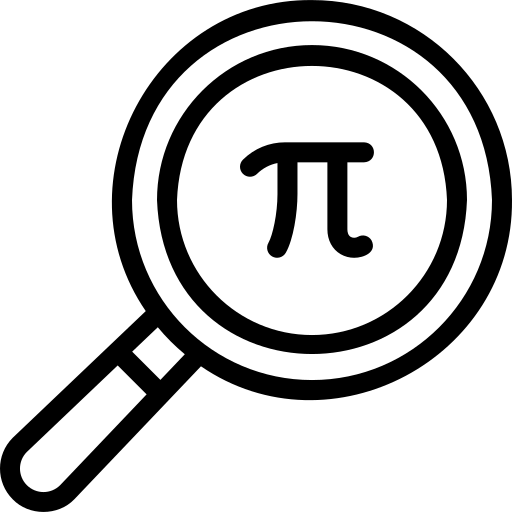
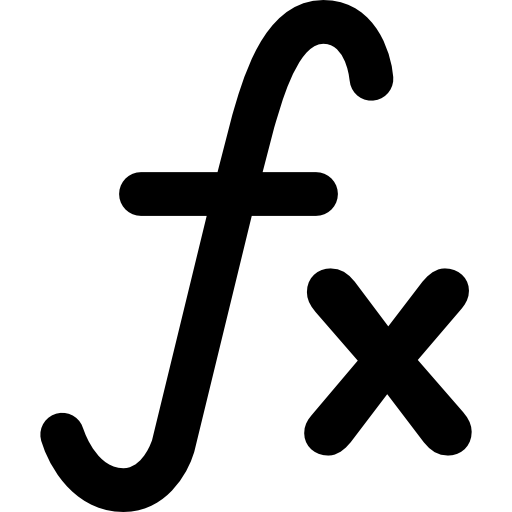
Ускорен пересчёт значений. Изменены иконки.

diff --git a/cornplot/array_utils.c b/cornplot/array_utils.c
@@ -126,47 +126,155 @@ PyObject* c_window_to_real_y_log(PyObject* self, PyObject* args)
 }
 
 
+// PyObject* c_recalculate_window_x(PyObject* self, PyObject* args)
+// {
+//     PyListObject *X_real;
+//     double x_start, real_width;
+//     int min_x, width, i0, ik, step;
+
+//     PyArg_ParseTuple(args, "O!iiddiii", &PyList_Type, &X_real, &min_x, &width, &real_width, &x_start, &i0, &ik, &step);
+
+//     int len = (ik - i0 + step - 1) / step;
+//     double scale = (double)width / real_width;
+//     PyListObject *ret = PyList_New(len);
+//     PyObject **items = ((PyListObject*)X_real)->ob_item;
+
+//     for (int i = i0, j = 0; i < ik && j < len; i += step, j++)
+//     {
+//         double x = PyFloat_AS_DOUBLE(items[i]);
+//         double x_win = min_x + scale * (x - x_start);
+//         PyList_SET_ITEM(ret, j, PyFloat_FromDouble(x_win));
+//     }
+//     return ret;
+// }
+
+
 PyObject* c_recalculate_window_x(PyObject* self, PyObject* args)
 {
-    PyListObject *X_real;
+    PyObject *X_real_obj;
     double x_start, real_width;
     int min_x, width, i0, ik, step;
 
-    PyArg_ParseTuple(args, "O!iiddiii", &PyList_Type, &X_real, &min_x, &width, &real_width, &x_start, &i0, &ik, &step);
-    int len = (int)round((float)(ik - i0) / (float)step);
-    PyListObject *ret = PyList_New(len);
-    int j = 0;
-    for(int i = i0; i < ik; i += step)
+    if (!PyArg_ParseTuple(args, "Oiiddiii", &X_real_obj, &min_x, &width, &real_width, &x_start, &i0, &ik, &step))
+        return NULL;
+
+    Py_buffer view;
+    if (PyObject_GetBuffer(X_real_obj, &view, PyBUF_SIMPLE | PyBUF_FORMAT) < 0)
+        return NULL;
+
+    double *data = (double*)view.buf;
+    
+    int len = (ik - i0 + step - 1) / step;
+    if (len <= 0)
     {
-        double x = PyFloat_AsDouble(PyList_GetItem(X_real, i));
-        double x_win = real_to_window_x(x, min_x, width, real_width, x_start);
-        if(j < len)
-            PyList_SetItem(ret, j++, PyFloat_FromDouble(x_win));
+        PyBuffer_Release(&view);
+        return PyList_New(0);
+    }
+    
+    double scale = (double)width / real_width;
+    
+    PyObject *ret = PyList_New(len);
+    if (ret == NULL)
+    {
+        PyBuffer_Release(&view);
+        return NULL;
     }
 
-    return (PyObject*)ret;
+    int arr_len = view.len / sizeof(double);
+    if (i0 < 0 || ik > arr_len || i0 >= ik)
+    {
+        PyBuffer_Release(&view);
+        Py_DECREF(ret);
+        PyErr_SetString(PyExc_IndexError, "Index out of range");
+        return NULL;
+    }
+
+    for (int i = i0, j = 0; i < ik && j < len; i += step, j++)
+    {
+        double x = data[i];
+        double x_win = min_x + scale * (x - x_start);
+        PyList_SET_ITEM(ret, j, PyFloat_FromDouble(x_win));
+    }
+
+    PyBuffer_Release(&view);
+    return ret;
 }
 
 
-PyObject* c_recalculate_window_y(PyObject* self, PyObject* args)
+/*PyObject* c_recalculate_window_y(PyObject* self, PyObject* args)
 {
     PyListObject *Y_real;
     double y_stop, real_height;
     int min_y, height, i0, ik, step;
 
     PyArg_ParseTuple(args, "O!iiddiii", &PyList_Type, &Y_real, &min_y, &height, &real_height, &y_stop, &i0, &ik, &step);
-    int len = (int)round((float)(ik - i0) / (float)step);
+
+    int len = (ik - i0 + step - 1) / step;
+    double scale = (double)height / real_height;
+    if (len < 0) len = 0;
     PyListObject *ret = PyList_New(len);
-    int j = 0;
-    for(int i = i0; i < ik; i += step)
+
+    PyObject** items = ((PyListObject*)Y_real)->ob_item;
+
+    for (int i = i0, j = 0; i < ik && j < len; i += step, j++)
     {
-        double y = PyFloat_AsDouble(PyList_GetItem(Y_real, i));
-        double y_win = real_to_window_y(y, min_y, height, real_height, y_stop);
-        if(j < len)
-            PyList_SetItem(ret, j++, PyFloat_FromDouble(y_win));
+        double y = PyFloat_AS_DOUBLE(items[i]);
+        double y_win = min_y + scale * (y_stop - y);
+        PyList_SET_ITEM(ret, j, PyFloat_FromDouble(y_win));
+    }
+    return ret;
+}*/
+
+
+PyObject* c_recalculate_window_y(PyObject* self, PyObject* args)
+{
+    PyObject *Y_real;
+    double y_stop, real_height;
+    int min_y, height, i0, ik, step;
+
+    if (!PyArg_ParseTuple(args, "Oiiddiii", &Y_real, &min_y, &height, &real_height, &y_stop, &i0, &ik, &step))
+        return NULL;
+
+    Py_buffer view;
+    if (PyObject_GetBuffer(Y_real, &view, PyBUF_SIMPLE | PyBUF_FORMAT) < 0)
+        return NULL;
+
+    double *data = (double*)view.buf;
+    
+    int len = (ik - i0 + step - 1) / step;
+    if (len <= 0)
+    {
+        PyBuffer_Release(&view);
+        return PyList_New(0);
+    }
+    
+    double scale = (double)height / real_height;
+    
+    PyObject *ret = PyList_New(len);
+    if (ret == NULL)
+    {
+        PyBuffer_Release(&view);
+        return NULL;
     }
 
-    return (PyObject*)ret;
+    int arr_len = view.len / sizeof(double);
+    if (i0 < 0 || ik > arr_len || i0 >= ik)
+    {
+        PyBuffer_Release(&view);
+        Py_DECREF(ret);
+        PyErr_SetString(PyExc_IndexError, "Index out of range");
+        return NULL;
+    }
+
+    for (int i = i0, j = 0; i < ik && j < len; i += step, j++)
+    {
+        double y = data[i];
+        double y_win = min_y + scale * (y_stop - y);
+        PyList_SET_ITEM(ret, j, PyFloat_FromDouble(y_win));
+    }
+
+    PyBuffer_Release(&view);
+    return ret;
 }
 
 

diff --git a/cornplot/dashboard.py b/cornplot/dashboard.py
@@ -2,10 +2,12 @@ import pickle, csv
 from math import log2, floor
 from typing import Any
 from pathlib import Path
+from time import monotonic
 
 from PyQt6.QtCore import QPointF, QLineF, QRectF, pyqtSlot as Slot, Qt, QMutexLocker, QMutex, pyqtSignal as Signal
 from PyQt6.QtWidgets import QMessageBox, QWidget
 from PyQt6.QtGui import QPainter, QPen, QColor, QFont, QFontMetrics, QPolygonF, QLinearGradient
+from numpy import sort as np_sort
 
 from .axles import Axles
 from .auxiliary_line import AuxiliaryLine
@@ -66,7 +68,7 @@ class Dashboard(Axles):
             self.import_from_cplt_file(file_name)
         elif file_name.lower().endswith(".csv"):
             try:
-                with open(file_name, "r") as f:
+                with open(file_name, "r", newline='') as f:
                     reader = csv.reader(f)
                     x_arr = list()
                     y_arrays = list()
@@ -278,7 +280,7 @@ class Dashboard(Axles):
         intervals = [x0 + (xk - x0) / interval_count * i for i in range(interval_count + 1)]
         x = [(intervals[i + 1] + intervals[i]) / 2 for i in range(interval_count)]
 
-        for val in np.sort(data):
+        for val in np_sort(data):
             while val > intervals[n_bin + 1] and n_bin < interval_count - 1:
                 n_bin += 1
             try:
@@ -346,7 +348,7 @@ class Dashboard(Axles):
         x = [(intervals[i + 1] + intervals[i]) / 2 for i in range(interval_count)]
         dx = x[1] - x[0]
 
-        for val in np.sort(data):
+        for val in np_sort(data):
             while val > intervals[n_bin + 1] and n_bin < interval_count - 1:
                 n_bin += 1
             try:
@@ -659,8 +661,8 @@ class Dashboard(Axles):
             return
 
         if plt.animated and not self.is_paused():
-            Xwin = c_recalculate_window_x(list(plt.X), self._MIN_X, self._get_width(), self._x_axle.real_size, self._x_axle.start, plt.index0, plt.index1 + 1, 1)
-            Ywin = c_recalculate_window_y(list(plt.Y), self._MIN_Y, self._get_heignt(), self._y_axle.real_size, self._y_axle.stop, plt.index0, plt.index1 + 1, 1)
+            Xwin = c_recalculate_window_x(plt.X, self._MIN_X, self._get_width(), self._x_axle.real_size, self._x_axle.start, plt.index0, plt.index1 + 1, 1)
+            Ywin = c_recalculate_window_y(plt.Y, self._MIN_Y, self._get_heignt(), self._y_axle.real_size, self._y_axle.stop, plt.index0, plt.index1 + 1, 1)
             if plt.draw_line and plt.pen.style() == Qt.PenStyle.SolidLine and not plt.is_filling_between():
                 plt.lines = [QLineF(Xwin[i - 1], Ywin[i - 1], Xwin[i], Ywin[i]) for i in range(1, len(Xwin))]
             if plt.draw_markers or plt.pen.style() != Qt.PenStyle.SolidLine or plt.is_filling_between():
@@ -924,6 +926,7 @@ class Dashboard(Axles):
     def _recalculate_window_coords(self) -> None:
         """Пересчёт массивов оконных координат графиков"""
         super()._recalculate_window_coords()
+        t0 = monotonic()
         for plt in self.__plots:
             self.__recalculate_plot_coords(plt)
 
@@ -934,6 +937,7 @@ class Dashboard(Axles):
                 self._real_to_window_x(line.X[0]), self._real_to_window_y(line.Y[0]),
                 self._real_to_window_x(line.X[1]), self._real_to_window_y(line.Y[1]),
             )
+        # print(monotonic() - t0)
 
     def __recalculate_plot_coords(self, plt: Plot):
         if plt.animated and not self.is_paused():
@@ -978,9 +982,9 @@ class Dashboard(Axles):
         plot.index1 = tmp
 
     def __recalculate_window_xy(self, plt: Plot, step):
-        Xwin = array('d', self.__recalculate_plot_x(plt, step))
-        Ywin = array('d', self.__recalculate_plot_y(plt, step))
-        
+        Xwin = self.__recalculate_plot_x(plt, step)
+        Ywin = self.__recalculate_plot_y(plt, step)
+
         length = plt.index1 - plt.index0
         if length == 0:
             return
@@ -999,12 +1003,12 @@ class Dashboard(Axles):
     def __recalculate_plot_x(self, plt: Plot, step):
         if self._x_axle.logarithmic:
             return [self._real_to_window_x(plt.X[i]) for i in range(plt.index0, plt.index1 + 1, step)]
-        return c_recalculate_window_x(list(plt.X), self._MIN_X, self._get_width(), self._x_axle.real_size, self._x_axle.start, plt.index0, plt.index1 + 1, step)
+        return c_recalculate_window_x(plt.X, self._MIN_X, self._get_width(), self._x_axle.real_size, self._x_axle.start, plt.index0, plt.index1 + 1, step)
     
     def __recalculate_plot_y(self, plt: Plot, step):
         if self._y_axle.logarithmic:
             return [self._real_to_window_y(plt.Y[i]) for i in range(plt.index0, plt.index1 + 1, step)]
-        return c_recalculate_window_y(list(plt.Y), self._MIN_Y, self._get_heignt(), self._y_axle.real_size, self._y_axle.stop, plt.index0, plt.index1 + 1, step)
+        return c_recalculate_window_y(plt.Y, self._MIN_Y, self._get_heignt(), self._y_axle.real_size, self._y_axle.stop, plt.index0, plt.index1 + 1, step)
     
     def set_plot_linestyle(self, name: str, linestyle: Qt.PenStyle):
         for plt in self.__plots:

diff --git a/cornplot/axles.py b/cornplot/axles.py
@@ -1,6 +1,7 @@
 import warnings
 from os import startfile
 from math import log10, floor, ceil, modf, isclose
+from numpy import round as np_round
 
 from PyQt6.QtCore import Qt, QLineF, QRectF, pyqtSlot as Slot, QRect, QTimer
 from PyQt6.QtGui import QPen, QColor, QPainter, QFont, QFontMetrics, QGuiApplication, QIcon
@@ -1103,7 +1104,7 @@ class Axles(QWidget):
             end_x_power = ceil(log10(self._x_axle.stop))
             x_metki_coords = [10 ** i for i in range(initial_x_power, end_x_power + 1)]
         else:
-            x_metki_coords = np.round(arange(x0, xk, self._x_axle.grid_step), 15)
+            x_metki_coords = np_round(arange(x0, xk, self._x_axle.grid_step), 15)
 
         divised_step = self._x_axle.grid_step / self._x_axle.divisor
         digit_count = max(get_digit_count_after_dot(x / self._x_axle.divisor) for x in x_metki_coords)
@@ -1113,7 +1114,8 @@ class Axles(QWidget):
 
         # формирование подписей осей
         if self._x_axle.min >= 0 and self.__convert_to_hhmmss:
-            metki_str = [convert_timestamp_to_human_time(x / self._x_axle.divisor + self.__initial_timestamp, modf(x)[0] != 0) for x in x_metki_coords]
+            millis = any(not isclose(modf(x / self._x_axle.divisor + self.__initial_timestamp)[0], 0, rel_tol=1e-3) and not isclose(modf(x / self._x_axle.divisor + self.__initial_timestamp)[0], 1, rel_tol=1e-3) for x in x_metki_coords)
+            metki_str = [convert_timestamp_to_human_time(x / self._x_axle.divisor + self.__initial_timestamp, millis) for x in x_metki_coords]
         else:
             if self._x_axle.logarithmic:
                 metki_str = ["10" + get_upper_index(int(log10(x / self._x_axle.divisor))) for x in x_metki_coords]

diff --git a/cornplot/cornplot_window.py b/cornplot/cornplot_window.py
@@ -863,6 +863,10 @@ class CornplotWindow(Ui_CornplotGui, QMainWindow):
         self.__fftWindow.dashboard_a.add_plot([0, 1], [0, 1], name='Амплитудный спектр', color="#f64a46", accurate=True)
         self.__fftWindow.dashboard_f.add_plot([0, 1], [0, 1], name='Фазовый спектр', color="#1560bd", accurate=True)
         self.__fftWindow.dashboard_source.add_plot([0, 1], [0, 1], name='Оригинал', color="#1560bd")
+        if self.__dashboard.human_time_display_enabled():
+            self.__fftWindow.dashboard_source.enable_human_time_display()
+        else:
+            self.__fftWindow.dashboard_source.disable_human_time_display()
         
         self.__fftWindow.setWindowTitle(f"Преобразование Фурье {self.plotName.currentText()}")
         self.__fftWindow.show()

diff --git a/cornplot/utils.py b/cornplot/utils.py
@@ -3,9 +3,9 @@ from array import array
 from datetime import datetime
 import importlib.resources as pkg_resources
 from pathlib import Path
+from math import isclose, modf
 
 from PyQt6.QtGui import QColor
-import numpy as np
 import sys
 
 
@@ -63,7 +63,7 @@ def convert_timestamp_to_human_time(timestamp, millis=False):
     if millis:
         return datetime.fromtimestamp(timestamp).time().strftime("%H:%M:%S.%f")[:-3]
     else:
-        return datetime.fromtimestamp(int(timestamp)).time().strftime("%H:%M:%S")
+        return datetime.fromtimestamp(round(timestamp)).time().strftime("%H:%M:%S")
 
 
 def round_custom(num, step):

diff --git a/cornplot/version.py b/cornplot/version.py
@@ -1,2 +1,2 @@
-VERSION = "1.3.4"
-DATE = "07.07.2026"
+VERSION = "1.4.0"
+DATE = "14.07.2026"

diff --git a/setup.py b/setup.py
@@ -17,7 +17,7 @@ def readme():
 
 setup(
     name="cornplot",
-    version="1.3.4",
+    version="1.4.0",
     packages=find_packages(include=['cornplot', 'cornplot.*']),
     long_description=readme(),
     ext_modules=[extension],